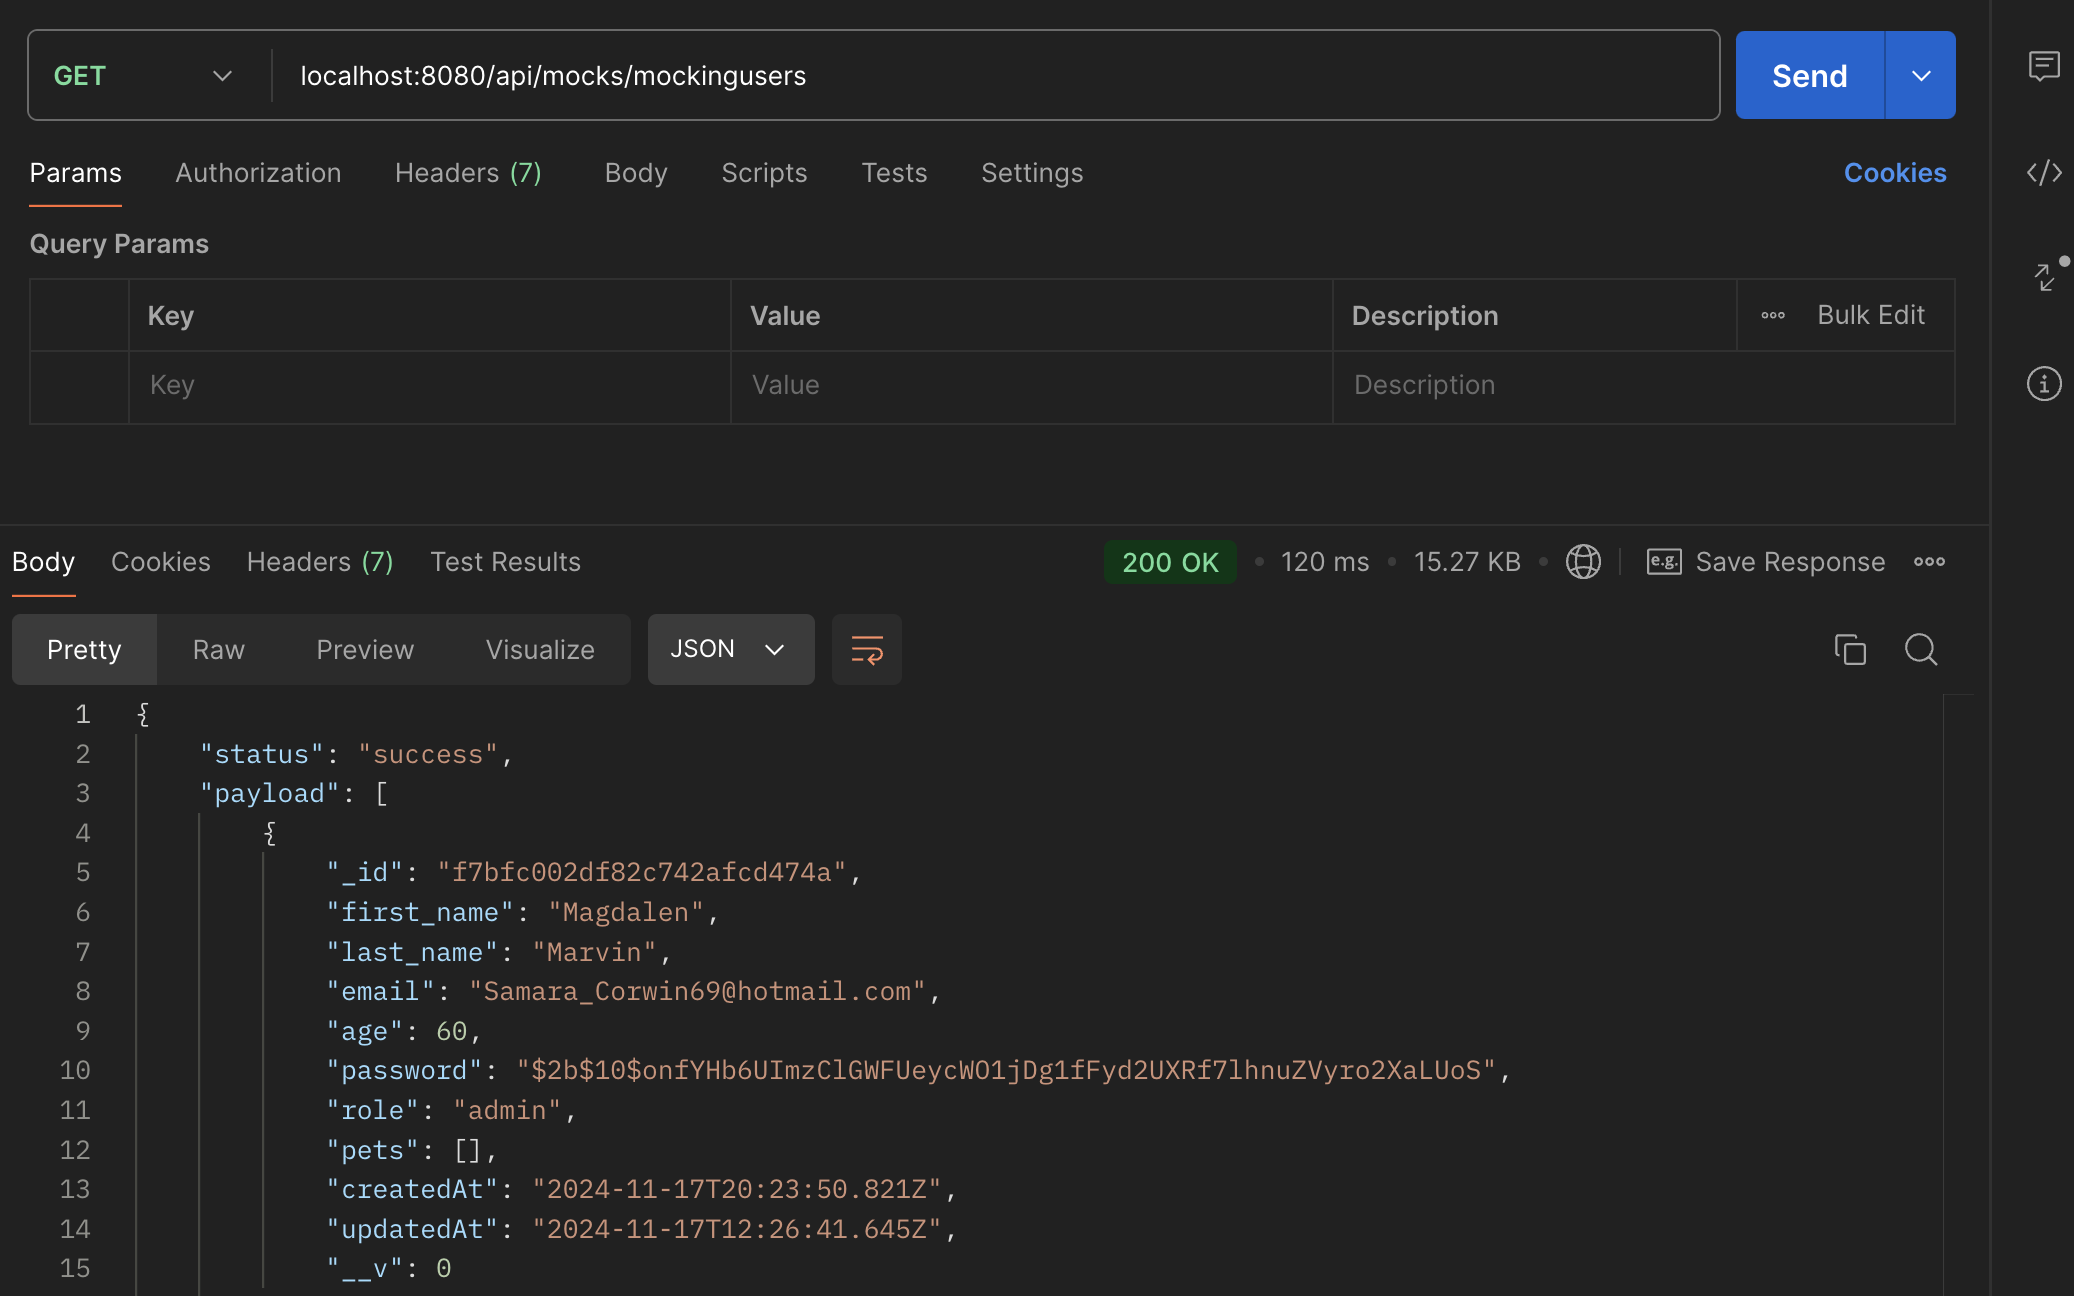
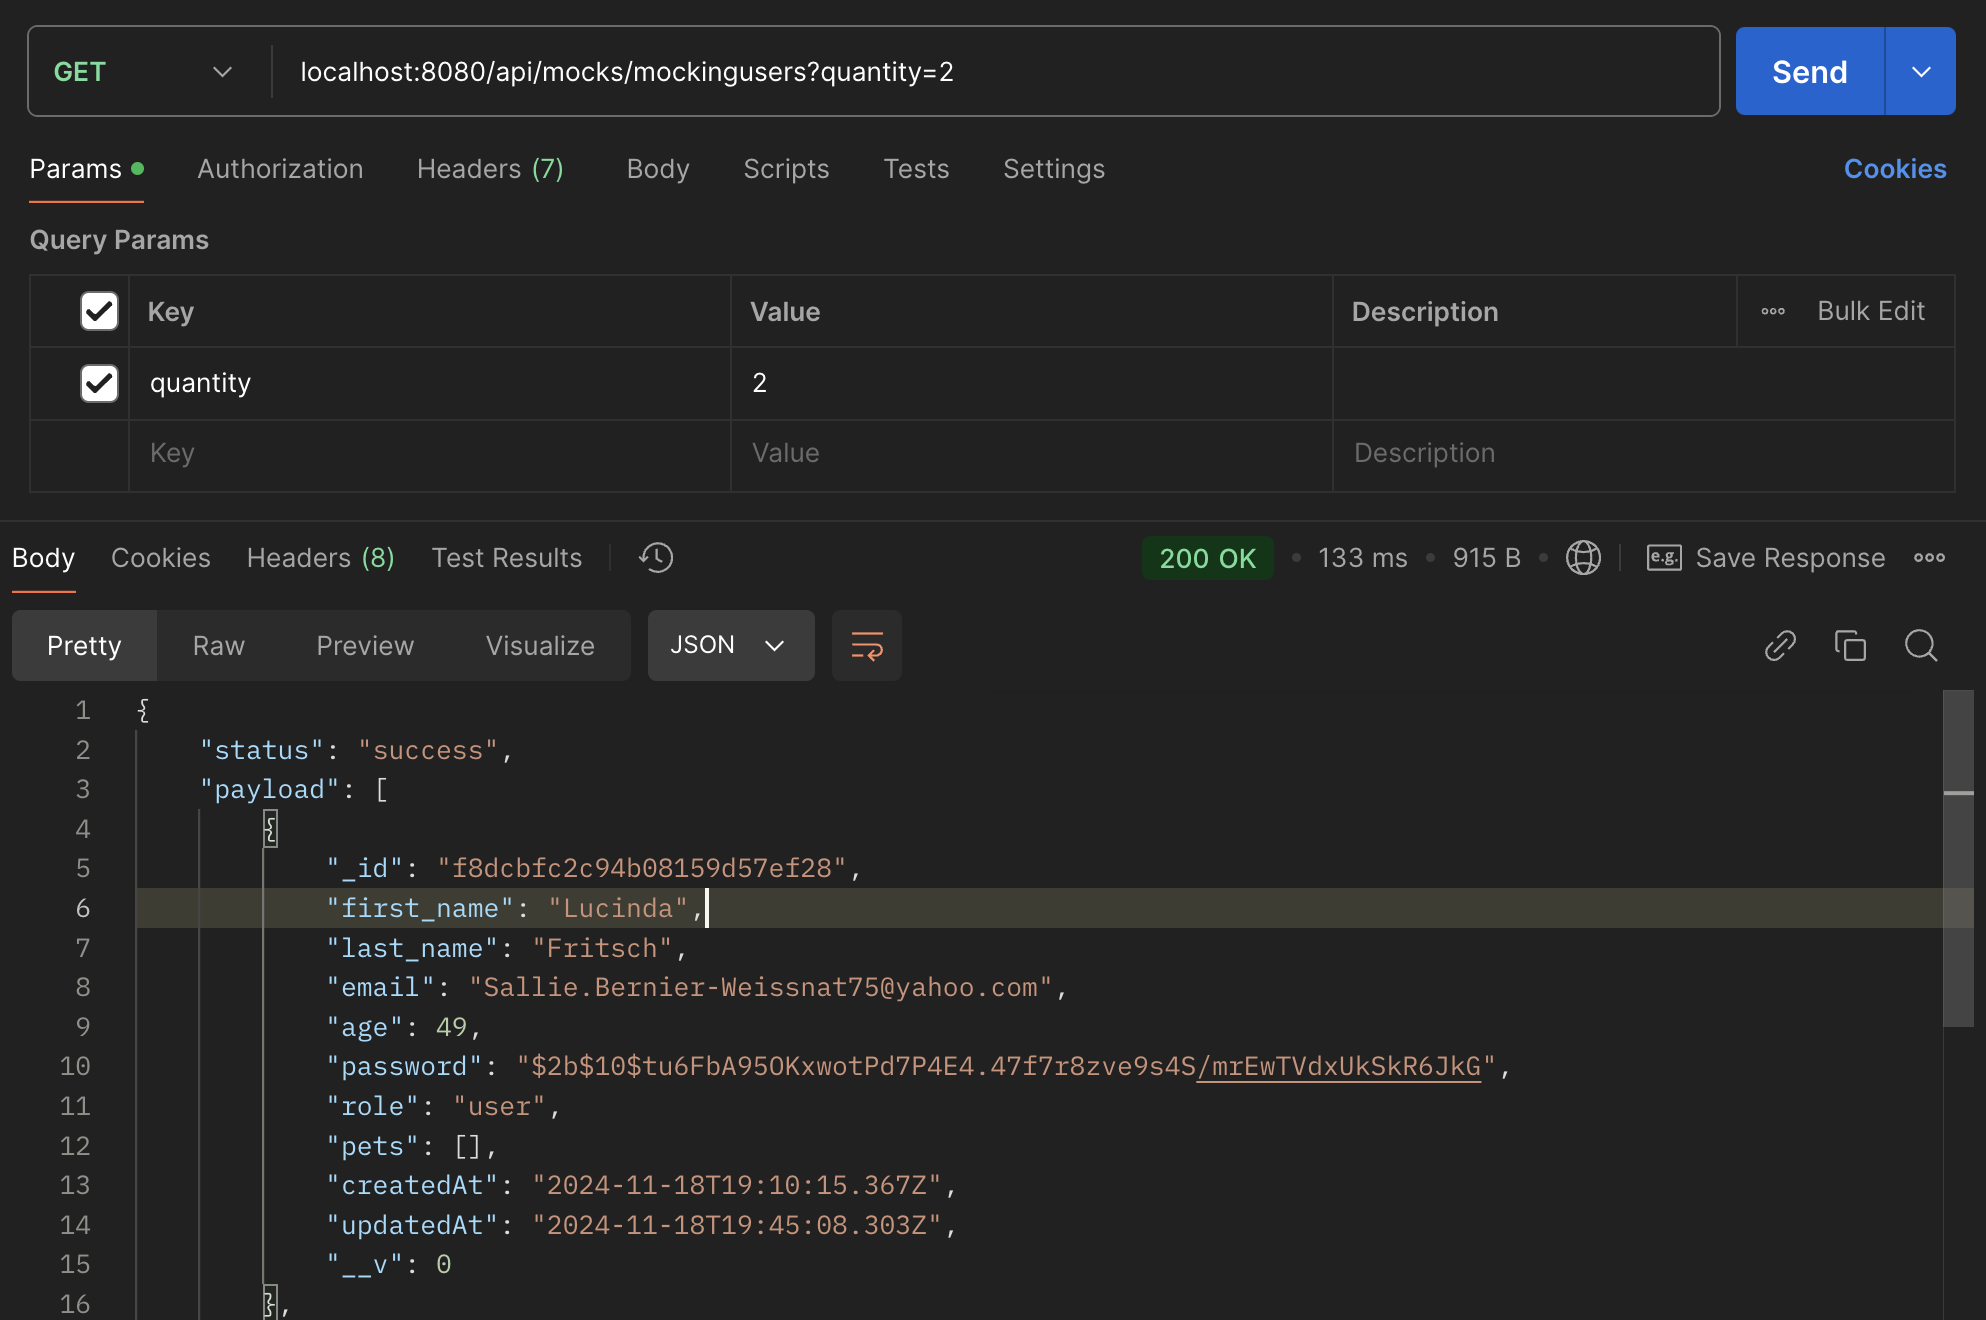
mocks

diff --git a/src/controllers/users.controller.js b/src/controllers/users.controller.js
@@ -5,41 +5,47 @@ import { ErrorMessages } from "../utils/errors/errorMessages.js";
 const controller = 'users.controller.js'
 const saveUser = async(req, res)=>{
     try{
-    console.log('aqui llega')
-    const { first_name, last_name, email, password } = req.body;
-    if (!first_name || !last_name || !email || !password) {
-        console.log(ErrorMessages.USER_REGISTRATION.MISSING_FIELDS)
-        CustomError.createError(ErrorMessages.USER_REGISTRATION.MISSING_FIELDS);
-    }
+        const { first_name, last_name, email, password } = req.body;
+        if (!first_name || !last_name || !email || !password) {
+            console.log(ErrorMessages.USER_REGISTRATION.MISSING_FIELDS)
+            CustomError.createError(ErrorMessages.USER_REGISTRATION.MISSING_FIELDS);
+        }
 
-    // Email validacióm
-    const emailRegex = /^[^\s@]+@[^\s@]+\.[^\s@]+$/;
-    if (!emailRegex.test(email)) {
-        CustomError.createError(ErrorMessages.USER_REGISTRATION.INVALID_EMAIL);
-    }
+        // Email validacióm
+        const emailRegex = /^[^\s@]+@[^\s@]+\.[^\s@]+$/;
+        if (!emailRegex.test(email)) {
+            CustomError.createError(ErrorMessages.USER_REGISTRATION.INVALID_EMAIL);
+        }
 
-    // Validación si existe usuario
-    const existingUser = await usersService.findOne({ email });
-    if (existingUser) {
-        CustomError.createError(ErrorMessages.USER_REGISTRATION.EMAIL_EXISTS);
-    }
+        // Validación si existe usuario
+        const existingUser = await usersService.findOne({ email });
+        if (existingUser) {
+            CustomError.createError(ErrorMessages.USER_REGISTRATION.EMAIL_EXISTS);
+        }
 
-    // Password validacion
-    if (password.length < 8 || !/\d/.test(password) || !/[a-zA-Z]/.test(password)) {
-        CustomError.createError(ErrorMessages.USER_REGISTRATION.PASSWORD_POLICY);
-    }
-    password = await bcrypt.hash(password, 10);
+        // Password validacion
+        if (password.length < 8 || !/\d/.test(password) || !/[a-zA-Z]/.test(password)) {
+            CustomError.createError(ErrorMessages.USER_REGISTRATION.PASSWORD_POLICY);
+        }
+        password = await bcrypt.hash(password, 10);
 
-    const result = await usersService.save(user);
-    res.send({status:"success", message:"User created with ID: " + result.id})
+        const result = await usersService.save(user);
+        res.send({status:"success", message:"User created with ID: " + result.id})
     } catch (error) {
+        req.logger.error(`${controller} saveUser: ${error.message}`)
         res.status(400).send({status:"error", error:error.message})
     }
 }
 
 const getAllUsers = async(req,res)=>{
-    const users = await usersService.getAll();
-    res.send({status:"success",payload:users})
+    try {
+        const users = await usersService.getAll();
+        res.send({status:"success",payload:users})
+    } catch (error) {
+        req.logger.error(`${controller} getAllUsers: ${error.message}`)
+        res.status(400).send({status:"error", error:error.message})
+    }
+    
 }
 
 const getUser = async(req,res)=> {
@@ -49,26 +55,37 @@ const getUser = async(req,res)=> {
         if(!user) return res.status(404).send({status:"error",error:"User not found"})
         res.send({status:"success",payload:user})
     } catch (error) {
-        //
-        req.logger.error(`${controller} getUser: ${error.message}`);
-        res.status(400).send({status:"error", error:(ErrorMessages.DATABASE.QUERY_ERROR)})
-        CustomError.createError(ErrorMessages.DATABASE.QUERY_ERROR);
+        req.logger.error(`${controller} getUser: ${error.message}`)
+        res.status(400).send({status:"error", error:error.message})
+
     }
 }
 
 const updateUser =async(req,res)=>{
-    const updateBody = req.body;
-    const userId = req.params.uid;
-    const user = await usersService.getUserById(userId);
-    if(!user) return res.status(404).send({status:"error", error:"User not found"})
-    const result = await usersService.update(userId,updateBody);
-    res.send({status:"success",message:"User updated"})
+    try {
+        const updateBody = req.body;
+        const userId = req.params.uid;
+        const user = await usersService.getUserById(userId);
+        if(!user) return res.status(404).send({status:"error", error:"User not found"})
+        const result = await usersService.update(userId,updateBody);
+        res.send({status:"success",message:"User updated"})
+    } catch (error) {
+        req.logger.error(`${controller} updateUser: ${error.message}`)
+        res.status(400).send({status:"error", error:error.message})
+
+    }
 }
 
 const deleteUser = async(req,res) =>{
-    const userId = req.params.uid;
-    const result = await usersService.getUserById(userId);
-    res.send({status:"success",message:"User deleted"})
+    try {
+        const userId = req.params.uid;
+        const result = await usersService.getUserById(userId);
+        req.logger.info(`${controller} deleteUser: ${result}`);
+        res.send({status:"success",message:"User deleted"})
+    } catch (error) {
+        req.logger.error(`${controller} deleteUser: ${error.message}`)
+        res.status(400).send({status:"error", error:error.message})
+    }
 }
 
 export default {

diff --git a/src/controllers/pets.controller.js b/src/controllers/pets.controller.js
@@ -5,57 +5,87 @@ import { ErrorMessages } from "../utils/errors/errorMessages.js";
 import __dirname from "../utils/index.js";
 
 const validSpecies = ['dog', 'cat', 'bird', 'rabbit'];
+const controller = 'pets.controller.js'
 
 const getAllPets = async(req,res)=>{
-    const pets = await petsService.getAll();
-    res.send({status:"success",payload:pets})
+    try {
+        const pets = await petsService.getAll();
+        res.send({status:"success",payload:pets})        
+    } catch (error) {
+        req.logger.error(`${controller} getAllPets: ${error.message}`)
+        res.status(400).send({status:"error", error:error.message})
+    }
+
 }
 
 const createPet = async(req,res)=> {
-    const { name, specie, birthDate } = req.body;
-    if(!name || !specie || !birthDate) {
-        CustomError.createError(ErrorMessages.PET_CREATION.MISSING_FIELDS)
-    }
+    try {
+        const { name, specie, birthDate } = req.body;
+        if(!name || !specie || !birthDate) {
+            CustomError.createError(ErrorMessages.PET_CREATION.MISSING_FIELDS)
+        }
 
-    if (!validSpecies.includes(specie.toLowerCase())) {
-        CustomError.createError(ErrorMessages.PET_CREATION.INVALID_SPECIES);
-    }
+        if (!validSpecies.includes(specie.toLowerCase())) {
+            CustomError.createError(ErrorMessages.PET_CREATION.INVALID_SPECIES);
+        }
 
-    if (isNaN(Date.parse(birthDate))) {
-        CustomError.createError(ErrorMessages.PET_CREATION.INVALID_DATE);
+        if (isNaN(Date.parse(birthDate))) {
+            CustomError.createError(ErrorMessages.PET_CREATION.INVALID_DATE);
+        }
+        const pet = PetDTO.getPetInputFrom({name,specie,birthDate});
+        const result = await petsService.create(pet);
+        res.send({status:"success",payload:result})
+    } catch (error) {
+        req.logger.error(`${controller} createPet: ${error.message}`)
+        res.status(400).send({status:"error", error:error.message})
     }
-    const pet = PetDTO.getPetInputFrom({name,specie,birthDate});
-    const result = await petsService.create(pet);
-    res.send({status:"success",payload:result})
 }
 
 const updatePet = async(req,res) =>{
-    const petUpdateBody = req.body;
-    const petId = req.params.pid;
-    const result = await petsService.update(petId,petUpdateBody);
-    res.send({status:"success",message:"pet updated"})
+    try {
+        const petUpdateBody = req.body;
+        const petId = req.params.pid;
+        const result = await petsService.update(petId,petUpdateBody);
+        res.send({status:"success",message:"pet updated"})
+    } catch (error) {
+        req.logger.error(`${controller} updatePet: ${error.message}`)
+        res.status(400).send({status:"error", error:error.message})
+    }
+    
 }
 
 const deletePet = async(req,res)=> {
-    const petId = req.params.pid;
-    const result = await petsService.delete(petId);
-    res.send({status:"success",message:"pet deleted"});
+    try {
+        const petId = req.params.pid;
+        const result = await petsService.delete(petId);
+        req.logger.info(`${controller} deletePet: ${result}`);
+        res.send({status:"success",message:"pet deleted"});
+    } catch (error) {
+        req.logger.error(`${controller} deletePet: ${error.message}`)
+        res.status(400).send({status:"error", error:error.message}) 
+    }
+
 }
 
 const createPetWithImage = async(req,res) =>{
-    const file = req.file;
-    const {name,specie,birthDate} = req.body;
-    if(!name||!specie||!birthDate) return res.status(400).send({status:"error",error:"Incomplete values"})
-    console.log(file);
-    const pet = PetDTO.getPetInputFrom({
-        name,
-        specie,
-        birthDate,
-        image:`${__dirname}/../public/img/${file.filename}`
-    });
-    console.log(pet);
-    const result = await petsService.create(pet);
-    res.send({status:"success",payload:result})
+    try {
+        const file = req.file;
+        const {name,specie,birthDate} = req.body;
+        if(!name||!specie||!birthDate) return res.status(400).send({status:"error",error:"Incomplete values"})
+        console.log(file);
+        const pet = PetDTO.getPetInputFrom({
+            name,
+            specie,
+            birthDate,
+            image:`${__dirname}/../public/img/${file.filename}`
+        });
+        console.log(pet);
+        const result = await petsService.create(pet);
+        res.send({status:"success",payload:result})
+    } catch (error) {
+        req.logger.error(`${controller} createPetWithImage: ${error.message}`)
+        res.status(400).send({status:"error", error:error.message})
+    }
 }
 export default {
     getAllPets,

diff --git a/src/controllers/mocks.controller.js b/src/controllers/mocks.controller.js
@@ -28,7 +28,9 @@ const generatePets = async (quantity) => {
 }
 
 const generatePetsReq = async (req, res) => {
-    const pets = await generatePets(100)
+    const qt = Number(req?.query?.quantity) && Number(req?.query?.quantity) > 0 ?
+                Number(req?.query?.quantity) : 100
+    const pets = await generatePets(qt)
     res.send({status:"success",payload:pets})
 }
 
@@ -57,8 +59,10 @@ const generateUsers = async (quantity) => {
 }
 
 const generateUsersReq = async (req, res) => {
-  const users = await generateUsers(50)
-  res.send({status:"success",payload:users})
+    const qt = Number(req?.query?.quantity) && Number(req?.query?.quantity) > 0 ?
+                Number(req?.query?.quantity) : 50
+    const users = await generateUsers(qt)
+    res.send({status:"success",payload:users})
 }
 
 const generateData = async (req, res) => {

diff --git a/README.md b/README.md
@@ -8,9 +8,9 @@ Un servicio de backend para el sistema de gestión de adopción de mascotas que 
 - MongoDB
 
 ## Instalación
-1. Clone the repository
+1. Clonar repositorio
 ```sh
-git clone [git@github.com:josybett/jcampos_adoptme_bk.git]
+git clone git@github.com:josybett/jcampos_adoptme_bk.git
 ```
 
 2. Crear archivo .env con los valores de .env.example
@@ -29,13 +29,13 @@ npm start
 ### Api Mocks
 1. [x] Mocks Pets
 - Método: GET
-localhost:8080/api/mocks/mockingpets
+localhost:8080/api/mocks/mockingpets?quantity=1
 ![alt text](src/images/readme/image.png)
 
 2. [x] Mocks Users
 - Método: GET
-localhost:8080/api/mocks/mockingusers
-![alt text](src/images/readme/image-mocks-user.png.png)
+localhost:8080/api/mocks/mockingusers?quantity=2
+![alt text](src/images/readme/image-mocks-user.png)
 
 3. [x] Mocks Generate Data
 - Método: POST
